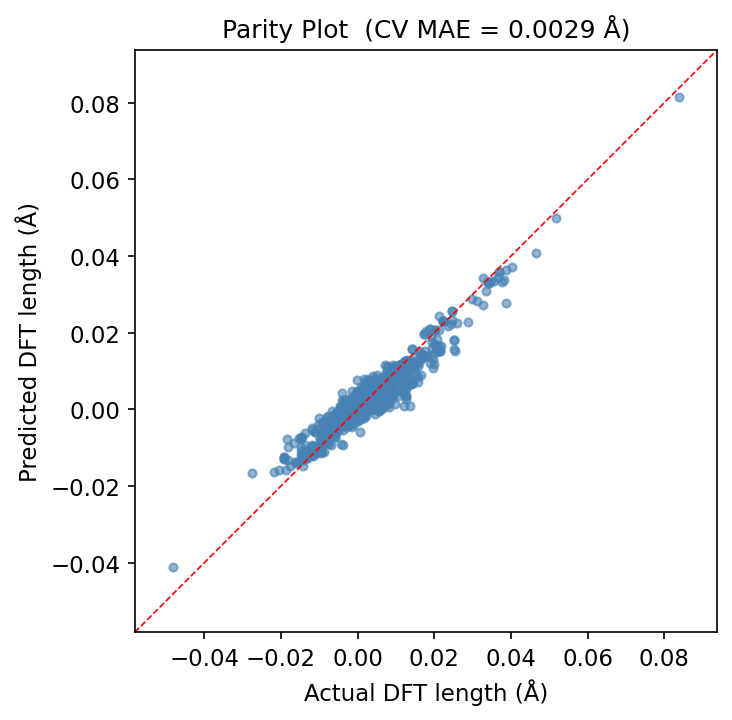
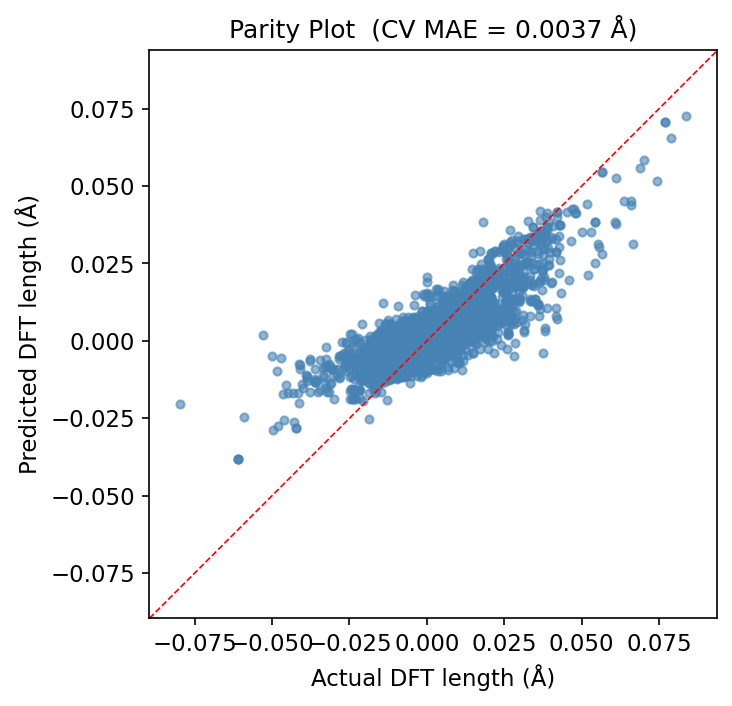
feat: FreeSolv 전체 재학습 + 4-way 벤치마크 결과
데이터: 659개 분자 (기존 50 + FreeSolv 641)

모델 성능 (5-Fold CV MAE):
  GBM-659:  0.0037 ± 0.0001 Å
  GNN-659:  0.0050 ± 0.0010 Å

벤치마크 스텝 개선율 (MMFF 기준):
  acetophenone  GBM-659: +25% (4→3 스텝)
  acrolein      GBM-50:  +20% (5→4 스텝)
  DMSO          GBM/GNN: +17% (6→5 스텝)

diff --git a/scripts/benchmark_new_mols.py b/scripts/benchmark_new_mols.py
@@ -32,9 +32,11 @@ from delta_chem.chem.gaussian_runner import run_gaussian
 from delta_chem.chem.log_parser import parse_log, parse_final_geometry
 
 # ── 모델 경로 ──────────────────────────────────────────────────────────────────
-MODEL_OLD = "models/bond_length_corrector_delta.joblib"           # GBM 50개 분자
-MODEL_EXP = "models/bond_length_corrector_delta_expanded.joblib"  # GBM 120개 분자
-MODEL_GNN = "models/bond_length_corrector_gnn.joblib"             # GNN 120개 분자
+MODEL_OLD  = "models/bond_length_corrector_delta.joblib"           # GBM 50개 분자
+MODEL_EXP  = "models/bond_length_corrector_delta_expanded.joblib"  # GBM 120개 분자
+MODEL_GNN  = "models/bond_length_corrector_gnn.joblib"             # GNN 120개 분자
+MODEL_FULL = "models/bond_length_corrector_delta_full.joblib"      # GBM 659개 분자
+MODEL_GNN_FULL = "models/bond_length_corrector_gnn_full.joblib"    # GNN 659개 분자
 
 # ── 벤치마크 분자 (훈련셋 미포함 확인 완료) ────────────────────────────────────
 MOLECULES = [
@@ -47,10 +49,10 @@ MOLECULES = [
 ]
 
 PIPELINES = [
-    ("rdkit",    None,      None),       # MMFF baseline
-    ("ml",       MODEL_OLD, "gbm"),      # GBM 50개 분자
-    ("ml_exp",   MODEL_EXP, "gbm"),      # GBM 120개 분자
-    ("gnn",      MODEL_GNN, "gnn"),      # GNN 120개 분자
+    ("rdkit",     None,          None),  # MMFF baseline
+    ("gbm_50",    MODEL_OLD,     "gbm"), # GBM 50개 분자
+    ("gbm_full",  MODEL_FULL,    "gbm"), # GBM 659개 분자
+    ("gnn_full",  MODEL_GNN_FULL,"gnn"), # GNN 659개 분자
 ]
 
 OUTDIR = Path("data/raw/benchmark_new")
@@ -210,12 +212,12 @@ def report_and_plot(df: pd.DataFrame) -> None:
 
     # ── 시각화 ──────────────────────────────────────────────────────────────
     pipeline_labels = {
-        "rdkit":  "MMFF (RDKit)",
-        "ml":     "GBM-50",
-        "ml_exp": "GBM-120",
-        "gnn":    "GNN-120",
+        "rdkit":    "MMFF (RDKit)",
+        "gbm_50":   "GBM-50",
+        "gbm_full": "GBM-659",
+        "gnn_full": "GNN-659",
     }
-    colors = {"rdkit": "#5B9BD5", "ml": "#ED7D31", "ml_exp": "#70AD47", "gnn": "#C00000"}
+    colors = {"rdkit": "#5B9BD5", "gbm_50": "#ED7D31", "gbm_full": "#70AD47", "gnn_full": "#C00000"}
 
     conv_mols = [m for m, _, _ in MOLECULES
                  if df[(df["molecule"] == m) & (df["pipeline"] == "rdkit") & df["converged"]].shape[0] > 0]
